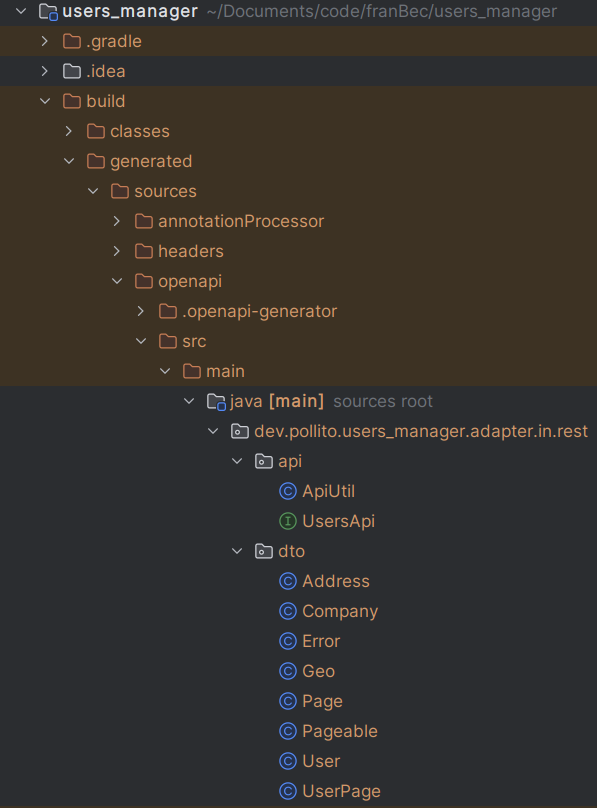
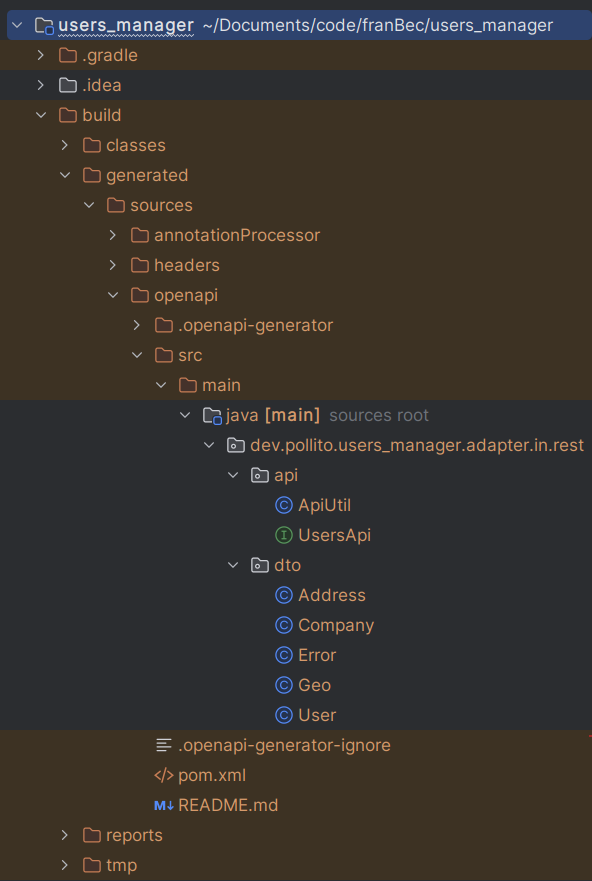
hexagonal WIP x4

Changed region(s): [[0.0, 0.0, 1.0, 0.9901]]

diff --git a/docs/contract-driven-development/define-your-endpoints-in-a-contract.md b/docs/contract-driven-development/define-your-endpoints-in-a-contract.md
@@ -33,11 +33,10 @@ Given a User with the following structure:
 }
 ```
 
-We want to create the following endpoints:
+We want our backend to expose these endpoints:
 
-* `/users` will return a page of users.
-  * [Pagination](https://www.merge.dev/blog/rest-api-pagination) is a pattern that breaks large datasets into manageable chunks, controlling:
-* `/users/{id}` will return the user with a matching id.
+* `/users` list all users.
+* `/users/{id}` get user by identifier.
 
 ## OpenAPI Specification
 
@@ -64,44 +63,15 @@ paths:
         - User
       summary: List all users
       operationId: findAll
-      parameters:
-        - description: Zero-based page index (0..N)
-          in: query
-          name: pageNumber
-          schema:
-            default: 0
-            minimum: 0
-            maximum: 2147483647
-            type: integer
-        - description: Size of the page to be returned
-          in: query
-          name: pageSize
-          schema:
-            default: 10
-            maximum: 10
-            minimum: 1
-            type: integer
-        - description: >
-            Sorting criteria in the format `field:direction`. Specify multiple
-            sort criteria by repeating the `sort` query parameter. For example:
-            `?pageSort=name:desc&pageSort=id:asc`. Available field values:
-            `id`, `name`, `username`, `email`. Available direction values: `asc`,
-            `desc`. If direction value is omitted it defaults to `asc`
-          explode: true
-          in: query
-          name: pageSort
-          schema:
-            default: [ id:asc ]
-            items:
-              type: string
-            type: array
       responses:
         '200':
           description: List of all users
           content:
             application/json:
               schema:
-                $ref: '#/components/schemas/UserPage'
+                type: array
+                items:
+                  $ref: '#/components/schemas/User'
         default:
           description: Error
           content:
@@ -218,28 +188,6 @@ components:
           example: "81.1496"
           type: string
       type: object
-    Page:
-      properties:
-        content:
-          type: object
-        pageable:
-          $ref: '#/components/schemas/Pageable'
-        totalElements:
-          description: Total number of items that meet the criteria
-          example: 10
-          type: integer
-      type: object
-    Pageable:
-      type: object
-      properties:
-        pageNumber:
-          description: Current page number (starts from 0)
-          example: 0
-          type: integer
-        pageSize:
-          description: Number of items retrieved on this page
-          example: 1
-          type: integer
     User:
       properties:
         address:
@@ -275,13 +223,6 @@ components:
           description: User website
           example: "hildegard.org"
           type: string
-    UserPage:
-      allOf:
-        - $ref: '#/components/schemas/Page'
-        - type: object
-          properties:
-            content:
-              $ref: '#/components/schemas/User'
 ```
 
 For better visualization you can copy-paste the yaml file into [Swagger Editor](https://editor.swagger.io/) or use [OpenAPI (Swagger) Editor
@@ -304,7 +245,7 @@ in IntelliJ IDEA](https://plugins.jetbrains.com/plugin/14837-openapi-swagger-edi
 
 **RESTful** APIs strictly follow *all* these constraints. But here's the thing: **most "REST" APIs aren't truly RESTful**, and that's okay.
 
-### The HATEOAS Hurdle
+### Rest Is Fine
 
 True RESTful APIs require [HATEOAS](https://restfulapi.net/hateoas/) (Hypermedia as the Engine of Application State) - embedding links to related resources in responses:
 
@@ -329,9 +270,7 @@ An OpenAPI contract already gives you 80% of REST's benefits:
 * **Standard HTTP methods** (`GET`/`POST`/`PUT`/`DELETE`).
 * **Clear error handling** (`4xx`/`5xx` codes).
 
-For those reasons, **we are going to build REST APIs**.
-
-Unless you're building hypermedia-driven systems, **REST is fine**. Focus on:
+For those reasons, **we are going to build REST APIs**. Unless you're building hypermedia-driven systems, **REST is fine**. Focus on:
 
 * Consistent contracts.
 * Predictable error handling.

diff --git a/docs/contract-driven-development/generate-code-from-the-contract.md b/docs/contract-driven-development/generate-code-from-the-contract.md
@@ -4,7 +4,21 @@ sidebar_position: 3
 
 # Generate Code from the Contract
 
-If we were to write by hand these two endpoints and the needed Models (called `Schemas` in the OpenAPI Specification) it may not be that complicated. But imagine if it was a big project, with a few dozen endpoints and close to a hundred schemas…
+## Why We Want To Generate Code from the Contract?
+
+If we were to write by hand one Primary Adapter that has some few endpoints and its needed models (called `Schemas` in the OpenAPI Specification) it may not be that complicated. 
+
+<div>
+  <img src={require('@site/static/img/contract-driven-development/hexagonal-arch-one-endpoint.png').default} alt="hexagonal arch one endpoint" />
+</div>
+
+But imagine if it was a big project, with a few dozen Primary Adapters… Doing this manually is prone to error and consume a lot of time.
+
+<div>
+  <img src={require('@site/static/img/contract-driven-development/hexagonal-arch-multiple-endpoints.png').default} alt="hexagonal arch multiple endpoints" />
+</div>
+
+## OpenAPI Generator
 
 Let’s save us some problems by using one of the greatest libraries to ever exist: [openapi-generator](https://github.com/OpenAPITools/openapi-generator).
 
@@ -67,7 +81,7 @@ Let’s save us some problems by using one of the greatest libraries to ever exi
     }
     ```
 
-6. Now that everything is set up, **run the Build Task**. When the task finishes, If you check the `build\generated\sources\openapi` folder, you’ll find the representation of the OpenAPI Specification (our contract) in Java code, ready to be used.
+6. Now that everything is set up, **run the Build Task**. When the task finishes, check the `build\generated\sources\openapi` folder. You’ll find the representation of the OpenAPI Specification (our contract) in Java code, ready to be used.
 
    <div>
      <img src={require('@site/static/img/contract-driven-development/build.png').default} alt="build" />

diff --git a/docs/contract-driven-development/what-is-a-contract.md b/docs/contract-driven-development/what-is-a-contract.md
@@ -12,9 +12,9 @@ In the [Design by contract wikipedia article](https://en.wikipedia.org/wiki/Desi
 
 > […] software designers should define formal, precise and verifiable interface specifications for software components, which extend the ordinary definition of abstract data types with preconditions, postconditions and invariants.
 
-From that, I made my own adaptation of the Contract-Driven Development philosophy for microservices architecture:
+From that, I made my own adaptation of the Contract-Driven Development philosophy for backends:
 
-> Microservices must comply with a contract, which defines inputs, outputs, and errors.
+> Backends must comply with a contract, which defines inputs, outputs, and errors.
 
 So, **what is a contract?** Is a **set of assertions** containing the following information:
 
@@ -26,3 +26,5 @@ In a Contract there are two parties:
 
 * **Consumer**: provides the input values and waits for the return.
 * **Provider**: waits for the input values and provides the return.
+
+So, **how do we write a contract?** Check the next lecture ;)

diff --git a/docs/contract-driven-development/use-the-generated-code.md b/docs/contract-driven-development/use-the-generated-code.md
@@ -4,6 +4,14 @@ sidebar_position: 5
 
 # Use the Generated Code
 
+So far we've used the [OpenAPI Generator Gradle Plugin](https://github.com/OpenAPITools/openapi-generator/tree/master/modules/openapi-generator-gradle-plugin) to generate the representation of the OpenAPI Specification (our contract) in Java code.
+
+<div>
+  <img src={require('@site/static/img/contract-driven-development/build.png').default} alt="build" />
+</div>
+
+But we are not using any of that code in our application yet. Let's change that.
+
 ## Delete the Model We Previously Wrote
 
 If we go to `src/main/java/dev/pollito/users_manager/model/User.java`, we will find the following error:
